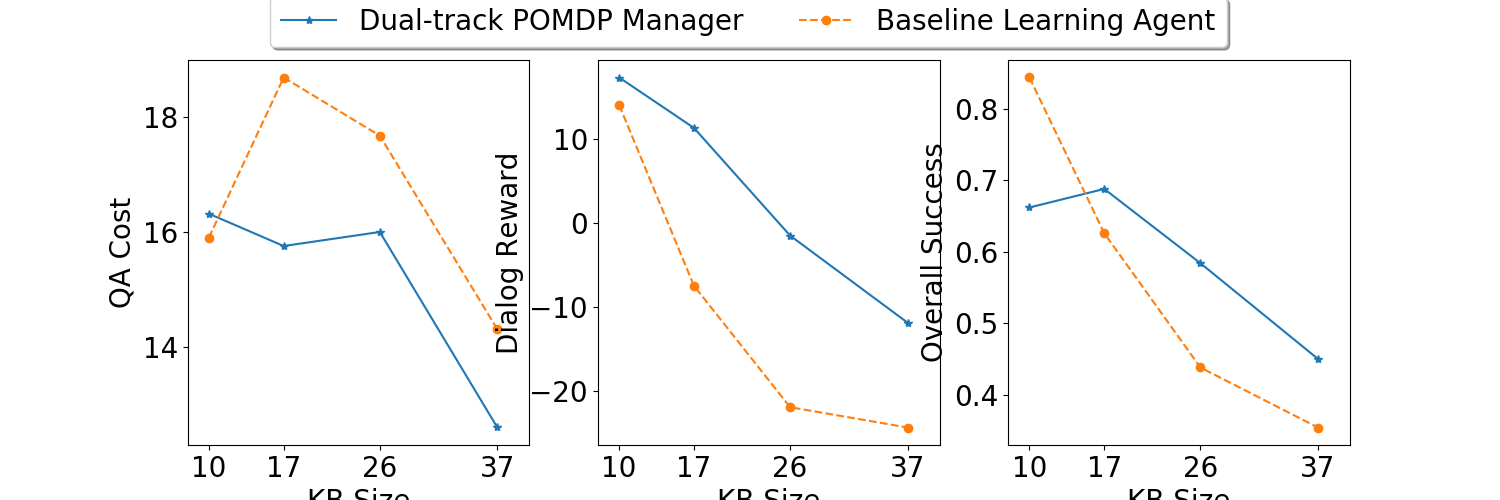
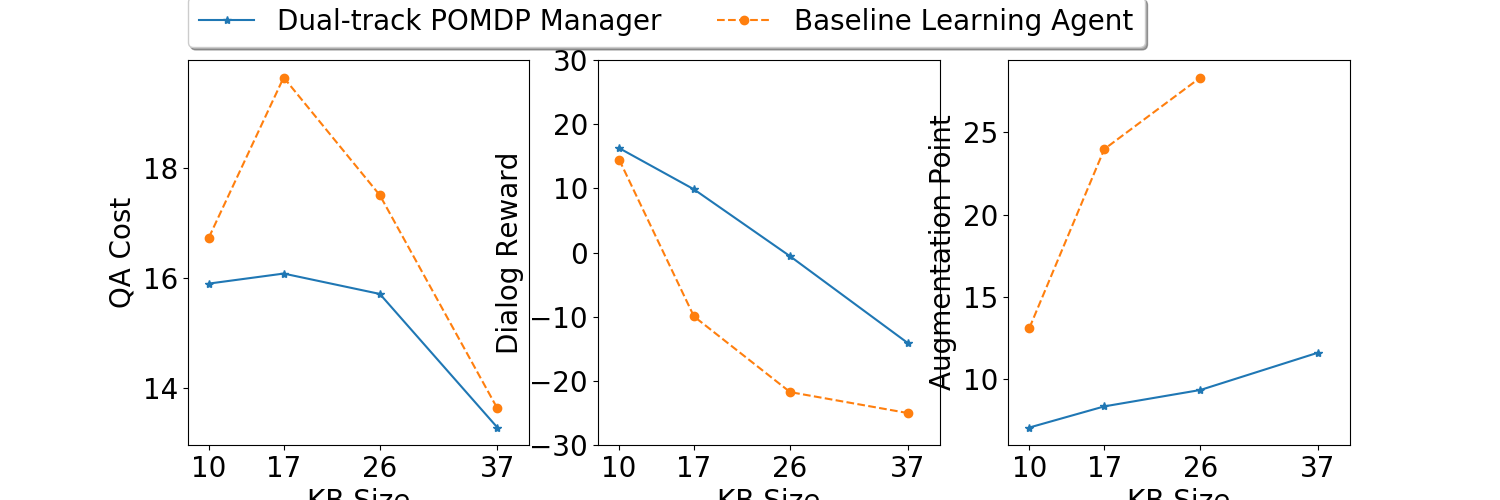
Hypothesis one improved

diff --git a/agent/domain_experiment.py b/agent/domain_experiment.py
@@ -9,6 +9,66 @@ import matplotlib.pyplot as plt
 import csv
 
 # abs(cost) makes cost values positive
+
+
+
+def hypo2(df1, df2,filelist,num):
+        
+        
+        
+
+
+        plt.subplot(133)
+	plt.plot([10,17,26,37],df1.loc[filelist[0]:filelist[-1],'F1 Score'],marker='*',linestyle='-',label='Dual-track POMDP Manager')
+	plt.plot([10,17,26,37],df2.loc[filelist[0]:filelist[-1],'F1 Score'],marker='o',linestyle='--',label='Baseline Learning Agent')
+        plt.ylim(0,1.5)
+        plt.ylabel('F1 Score')
+	plt.xlabel('KB Size')
+
+
+        plt.subplot(132)
+	plt.plot([10,17,26,37],df1.loc[filelist[0]:filelist[-1],'Precision'],marker='*',linestyle='-',label='Dual-track POMDP Manager')
+	plt.plot([10,17,26,37],df2.loc[filelist[0]:filelist[-1],'Precision'],marker='o',linestyle='--',label='Baseline Learning Agent')
+        plt.ylim(0,1.2)
+        plt.ylabel('Precision')
+	plt.xlabel('KB Size')
+
+
+        plt.subplot(131)
+	plt.plot([10,17,26,37],df1.loc[filelist[0]:filelist[-1],'Recall'],marker='*',linestyle='-',label='Dual-track POMDP Manager')
+	plt.plot([10,17,26,37],df2.loc[filelist[0]:filelist[-1],'Recall'],marker='o',linestyle='--',label='Baseline Learning Agent')
+        plt.ylim(0,1.5)
+        plt.ylabel('Recall')
+	plt.xlabel('KB Size')
+
+
+        plt.legend(loc='upper center')
+
+        plt.show()
+
+
+
+def plotgenerateF1Our(df1,filelist,num):
+        
+        
+        plt.plot([10,17,26,37],df1.loc[filelist[0]:filelist[-1],'F1 Score'],marker='o',linestyle='-',label='F1 Score')
+        plt.plot([10,17,26,37],df1.loc[filelist[0]:filelist[-1],'Precision'],marker='^',linestyle='--',label='Precision')
+        plt.plot([10,17,26,37],df1.loc[filelist[0]:filelist[-1],'Recall'],marker='+',linestyle=':',label='Recall')
+
+        #plt.xlim(1.5,max(belieflist)+1)
+        plt.ylim(0,1.5)
+        #plt.ylabel('Baseline Learning Agent')
+        #plt.xlabel('KB Size')
+        plt.legend(loc=0)
+        #plt.xlim(1.5,max(belieflist)+1)
+        #plt.ylim(0,1)
+        plt.ylabel('Dual-track POMDP Manager')
+        plt.xlabel('KB Size')
+        plt.legend(loc=0)
+        plt.show()	 	
+
+
+
 def plotgenerate(df1,df2,filelist,num):
 	######################################### Uncomment: Plot all 5 in one figure ###############################################################33
 	'''
@@ -101,7 +161,7 @@ def plotgenerate(df1,df2,filelist,num):
 	plt.ylabel('QA Cost', fontsize = font_size)
 	plt.xlabel('KB Size', fontsize = font_size)
 
-	ax=plt.subplot(132)
+	plt.subplot(132)
 	plt.plot([10,17,26,37],df1.loc[filelist[0]:filelist[-1],'Dialog Reward'],marker='*',linestyle='-',label='Dual-track POMDP Manager')
 	plt.plot([10,17,26,37],df2.loc[filelist[0]:filelist[-1],'Dialog Reward'],marker='o',linestyle='--',label='Baseline Learning Agent')
 	plt.xlim(8,40)
@@ -109,30 +169,30 @@ def plotgenerate(df1,df2,filelist,num):
 	plt.tick_params(labelsize=font_size)
 	plt.ylabel('Dialog Reward', fontsize = font_size)
 	plt.xlabel('KB Size', fontsize = font_size)
-	#plt.ylim(-30, 30)
+	plt.ylim(-30, 30)
 	
 
 
 
-        plt.subplot(133)
-	plt.plot([10,17,26,37],df1.loc[filelist[0]:filelist[-1],'Overall Success'],marker='*',linestyle='-',label='Dual-track POMDP Manager')
-	plt.plot([10,17,26,37],df2.loc[filelist[0]:filelist[-1],'Overall Success'],marker='o',linestyle='--',label='Baseline Learning Agent')
-	plt.xlim(8,40)
-	matplotlib.pyplot.xticks([10,17,26,37], fontsize = font_size)
-	plt.tick_params(labelsize=font_size)
-	plt.ylabel('Overall Success', fontsize = font_size)
-        plt.xlabel('KB Size', fontsize = font_size)
-
-
-
-	#plt.subplot(133)
-	#plt.plot([10,17,26,37],df1.loc[filelist[0]:filelist[-1],'KB Augmentation Point'],marker='*',linestyle='-',label='Dual-track POMDP Manager')
-	#plt.plot([10,17,26,37],df2.loc[filelist[0]:filelist[-1],'KB Augmentation Point'],marker='o',linestyle='--',label='Baseline Learning Agent')
+        #plt.subplot(133)
+	#plt.plot([10,17,26,37],df1.loc[filelist[0]:filelist[-1],'Overall Success'],marker='*',linestyle='-',label='Dual-track POMDP Manager')
+	#plt.plot([10,17,26,37],df2.loc[filelist[0]:filelist[-1],'Overall Success'],marker='o',linestyle='--',label='Baseline Learning Agent')
 	#plt.xlim(8,40)
 	#matplotlib.pyplot.xticks([10,17,26,37], fontsize = font_size)
 	#plt.tick_params(labelsize=font_size)
-	#plt.ylabel('Augmentation Point', fontsize = font_size)
-	#plt.xlabel('KB Size', fontsize = font_size)
+	#plt.ylabel('Overall Success', fontsize = font_size)
+        #plt.xlabel('KB Size', fontsize = font_size)
+
+
+
+	plt.subplot(133)
+	plt.plot([10,17,26,37],df1.loc[filelist[0]:filelist[-1],'KB Augmentation Point'],marker='*',linestyle='-',label='Dual-track POMDP Manager')
+	plt.plot([10,17,26,37],df2.loc[filelist[0]:filelist[-1],'KB Augmentation Point'],marker='o',linestyle='--',label='Baseline Learning Agent')
+	plt.xlim(8,40)
+	matplotlib.pyplot.xticks([10,17,26,37], fontsize = font_size)
+	plt.tick_params(labelsize=font_size)
+	plt.ylabel('Augmentation Point', fontsize = font_size)
+	plt.xlabel('KB Size', fontsize = font_size)
 
 	'''
 	plt.subplot(234)
@@ -153,7 +213,7 @@ def plotgenerate(df1,df2,filelist,num):
 	plt.ylabel('Recall')
 	plt.xlabel('Knowledge size')
 	'''
-	ax.legend(loc='upper left', bbox_to_anchor=(-1, 1.2),  shadow=True, ncol=2, fontsize=font_size)
+	plt.legend(loc='upper center', bbox_to_anchor=(-1, 1.2),  shadow=True, ncol=2, fontsize=font_size)
 	#g.tight_layout()
 	plt.show()
 	g.savefig('Plots/all_'+str(num)+'_trials_domain_experiment_entropy_5_belief_0_45_N_1')
@@ -162,7 +222,7 @@ def plotgenerate(df1,df2,filelist,num):
 def main():
 
 
-	num=500                                    #number of trials
+	num=500                                  #number of trials
 	filelist=['133','144','155','166']                     #list of pomdp files
 	#filelist=['144']
 	#entlist=[5,5,5,5]
@@ -223,14 +283,18 @@ def main():
 		df1.at[iterator,'Dialog Reward']= c
 		df1.at[iterator,'Precision']= p
 		df1.at[iterator,'Recall']= r
+                df1.at[iterator,'F1 Score'] = f
                 df1.at[iterator,'KB Augmentation Point']= ap
+                
 
 		df2.at[iterator,'QA Cost']= ab
 		df2.at[iterator,'Overall Success']= bb
 		df2.at[iterator,'Dialog Reward']= cb
 		df2.at[iterator,'Precision']= pb
 		df2.at[iterator,'Recall']= rb
+                df2.at[iterator,'F1 Score'] = fb
                 df2.at[iterator,'KB Augmentation Point']= apb
+
 	df1.to_csv("Plots_data/all_"+str(num)+"_trials_domain_experiment_entropy_5_belief_0.45_pomdpdual.csv", encoding='utf-8', index=True)
 	df2.to_csv("Plots_data/all_"+str(num)+"_trials_domain_experiment_entropy_5_belief_0.45_baseline.csv", encoding='utf-8', index=True)
 	df1.sort_values(by=['QA Cost'])
@@ -240,6 +304,8 @@ def main():
 	print ('Baseline Results')
 	print (df2)
 	plotgenerate(df1,df2,filelist,num)
+        #hypo2(df1,df2,filelist,num)
+        #plotgenerateF1Base(df2,filelist,num)
 	i+=1
 
 if __name__ == '__main__':

diff --git a/agent/simulator_noparser.py b/agent/simulator_noparser.py
@@ -549,7 +549,7 @@ class Simulator(object):
             reward_list.append(reward)
             cost_list.append(cost)
 
-            if(added): # If something added to KB, add this added_point_list to calculate the mean at the end. Hypothesis 1
+            if(added and is_new): # We augment and is needed
                 added_point_list.append(added_point)
 						   
 
@@ -630,7 +630,9 @@ class Simulator(object):
         print('Precision:' + str(precision))
         print('Recall:' + str(recall))
         print('F1:' + str(f1_score))
-
+       
+        #if(len(added_point_list) == 0): # To stop return NaN
+            #added_arr = numpy.zeros(1)
         return (numpy.mean(cost_arr), numpy.mean(success_arr), \
             numpy.mean(overall_reward_arr), precision, recall, f1_score, numpy.mean(added_arr))
 
